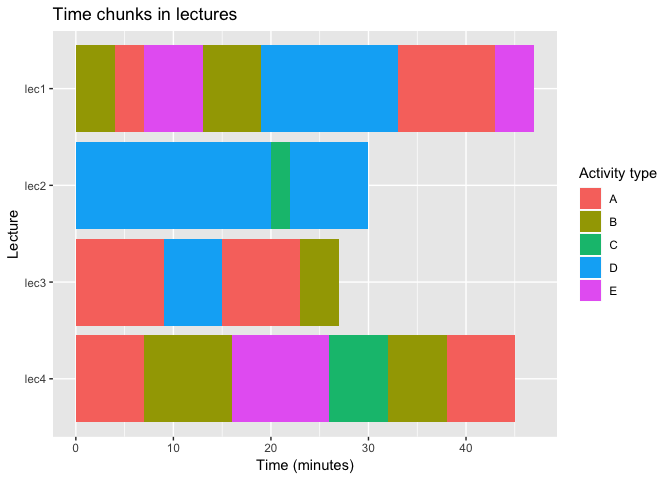
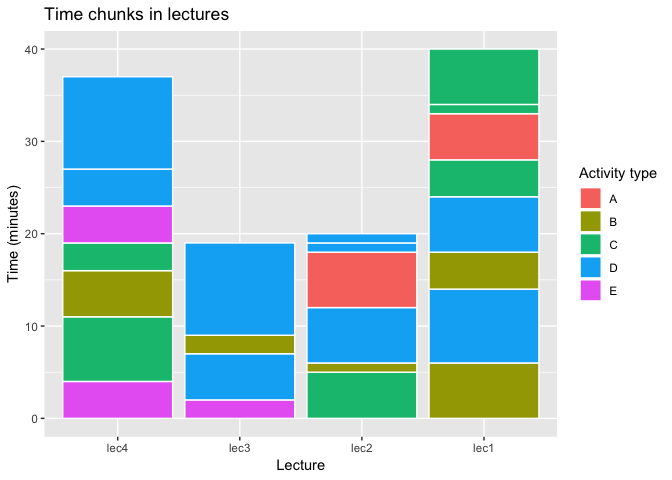
tweak cumul time to get order OK

diff --git a/plot_time_chunks.md b/plot_time_chunks.md
@@ -26,12 +26,20 @@ library(forcats) # to change factor levels
 library(ggsci) # for palette
 ```
 
+set random number seed so data the same
+
+``` r
+set.seed(111)
+```
+
 Make some data with... column for lecture, column for time spent column for class of activity
 
 ``` r
-dat <- tibble(lecture = rep(paste0("lec", 1:4), c(8, 6, 4, 7)),
-                  time = sample(1:10, 25, replace = TRUE),
-                  type = sample(LETTERS[1:5], 25, replace = TRUE))
+dat <- tibble(
+  lecture = rep(paste0("lec", 1:4), c(8, 6, 4, 7)),
+  time = sample(1:10, 25, replace = TRUE),
+  type = sample(LETTERS[1:5], 25, replace = TRUE)
+)
 
 dat
 ```
@@ -39,24 +47,24 @@ dat
     ## # A tibble: 25 x 3
     ##    lecture  time type 
     ##    <chr>   <int> <chr>
-    ##  1 lec1        4 E    
-    ##  2 lec1       10 A    
-    ##  3 lec1        8 D    
+    ##  1 lec1        6 B    
+    ##  2 lec1        8 D    
+    ##  3 lec1        4 B    
     ##  4 lec1        6 D    
-    ##  5 lec1        6 B    
-    ##  6 lec1        6 E    
-    ##  7 lec1        3 A    
-    ##  8 lec1        4 B    
-    ##  9 lec2        8 D    
-    ## 10 lec2        2 C    
+    ##  5 lec1        4 C    
+    ##  6 lec1        5 A    
+    ##  7 lec1        1 C    
+    ##  8 lec1        6 C    
+    ##  9 lec2        5 C    
+    ## 10 lec2        1 B    
     ## # … with 15 more rows
 
-Then add a column, for each lecture with the cumulative time spent (need this to give unique ID for each chunk)
+Then add a column, for each lecture with the cumulative time spent (need this to give unique ID for each chunk) (This needs reversing to plot orders sensibly)
 
 ``` r
 dat <- dat %>%
-  group_by(lecture) %>% 
-  mutate(time_cumul = cumsum(time))
+  group_by(lecture) %>%
+  mutate(time_cumul = rev(cumsum(time)))
 
 dat
 ```
@@ -65,31 +73,39 @@ dat
     ## # Groups:   lecture [4]
     ##    lecture  time type  time_cumul
     ##    <chr>   <int> <chr>      <int>
-    ##  1 lec1        4 E              4
-    ##  2 lec1       10 A             14
-    ##  3 lec1        8 D             22
+    ##  1 lec1        6 B             40
+    ##  2 lec1        8 D             34
+    ##  3 lec1        4 B             33
     ##  4 lec1        6 D             28
-    ##  5 lec1        6 B             34
-    ##  6 lec1        6 E             40
-    ##  7 lec1        3 A             43
-    ##  8 lec1        4 B             47
-    ##  9 lec2        8 D              8
-    ## 10 lec2        2 C             10
+    ##  5 lec1        4 C             24
+    ##  6 lec1        5 A             18
+    ##  7 lec1        1 C             14
+    ##  8 lec1        6 C              6
+    ##  9 lec2        5 C             20
+    ## 10 lec2        1 B             19
     ## # … with 15 more rows
 
 Then plot Each lecture maps to an x column Time slots 'stack' and have fill colour of 'type' Tidy up axis lables with labs()
 
 ``` r
 ggplot(dat) +
-  aes(x = fct_rev(lecture), y = time, fill = type, group = time_cumul) +
-  geom_bar(stat = "identity", position = position_stack()) +
-  labs(title = "Time chunks in lectures",
-       x = "Lecture",
-       y = "Time (minutes)",
-       fill = "Activity type")
+  aes(
+    x = fct_rev(lecture), y = time,
+    fill = type,
+    group = time_cumul
+  ) +
+  geom_bar(stat = "identity",
+           position = position_stack(),
+           colour = "white") +
+  labs(
+    title = "Time chunks in lectures",
+    x = "Lecture",
+    y = "Time (minutes)",
+    fill = "Activity type"
+  )
 ```
 
-![](plot_time_chunks_files/figure-markdown_github/unnamed-chunk-4-1.png)
+![](plot_time_chunks_files/figure-markdown_github/unnamed-chunk-5-1.png)
 
 Looks nicer if flipped around... coord\_flip() could just be added onto code above or this way takes last plot and adds it...
 
@@ -98,7 +114,7 @@ last_plot() +
   coord_flip()
 ```
 
-![](plot_time_chunks_files/figure-markdown_github/unnamed-chunk-5-1.png)
+![](plot_time_chunks_files/figure-markdown_github/unnamed-chunk-6-1.png)
 
 Maybe nicer with different colours
 
@@ -107,4 +123,4 @@ last_plot() +
   ggsci::scale_fill_locuszoom()
 ```
 
-![](plot_time_chunks_files/figure-markdown_github/unnamed-chunk-6-1.png)
+![](plot_time_chunks_files/figure-markdown_github/unnamed-chunk-7-1.png)
